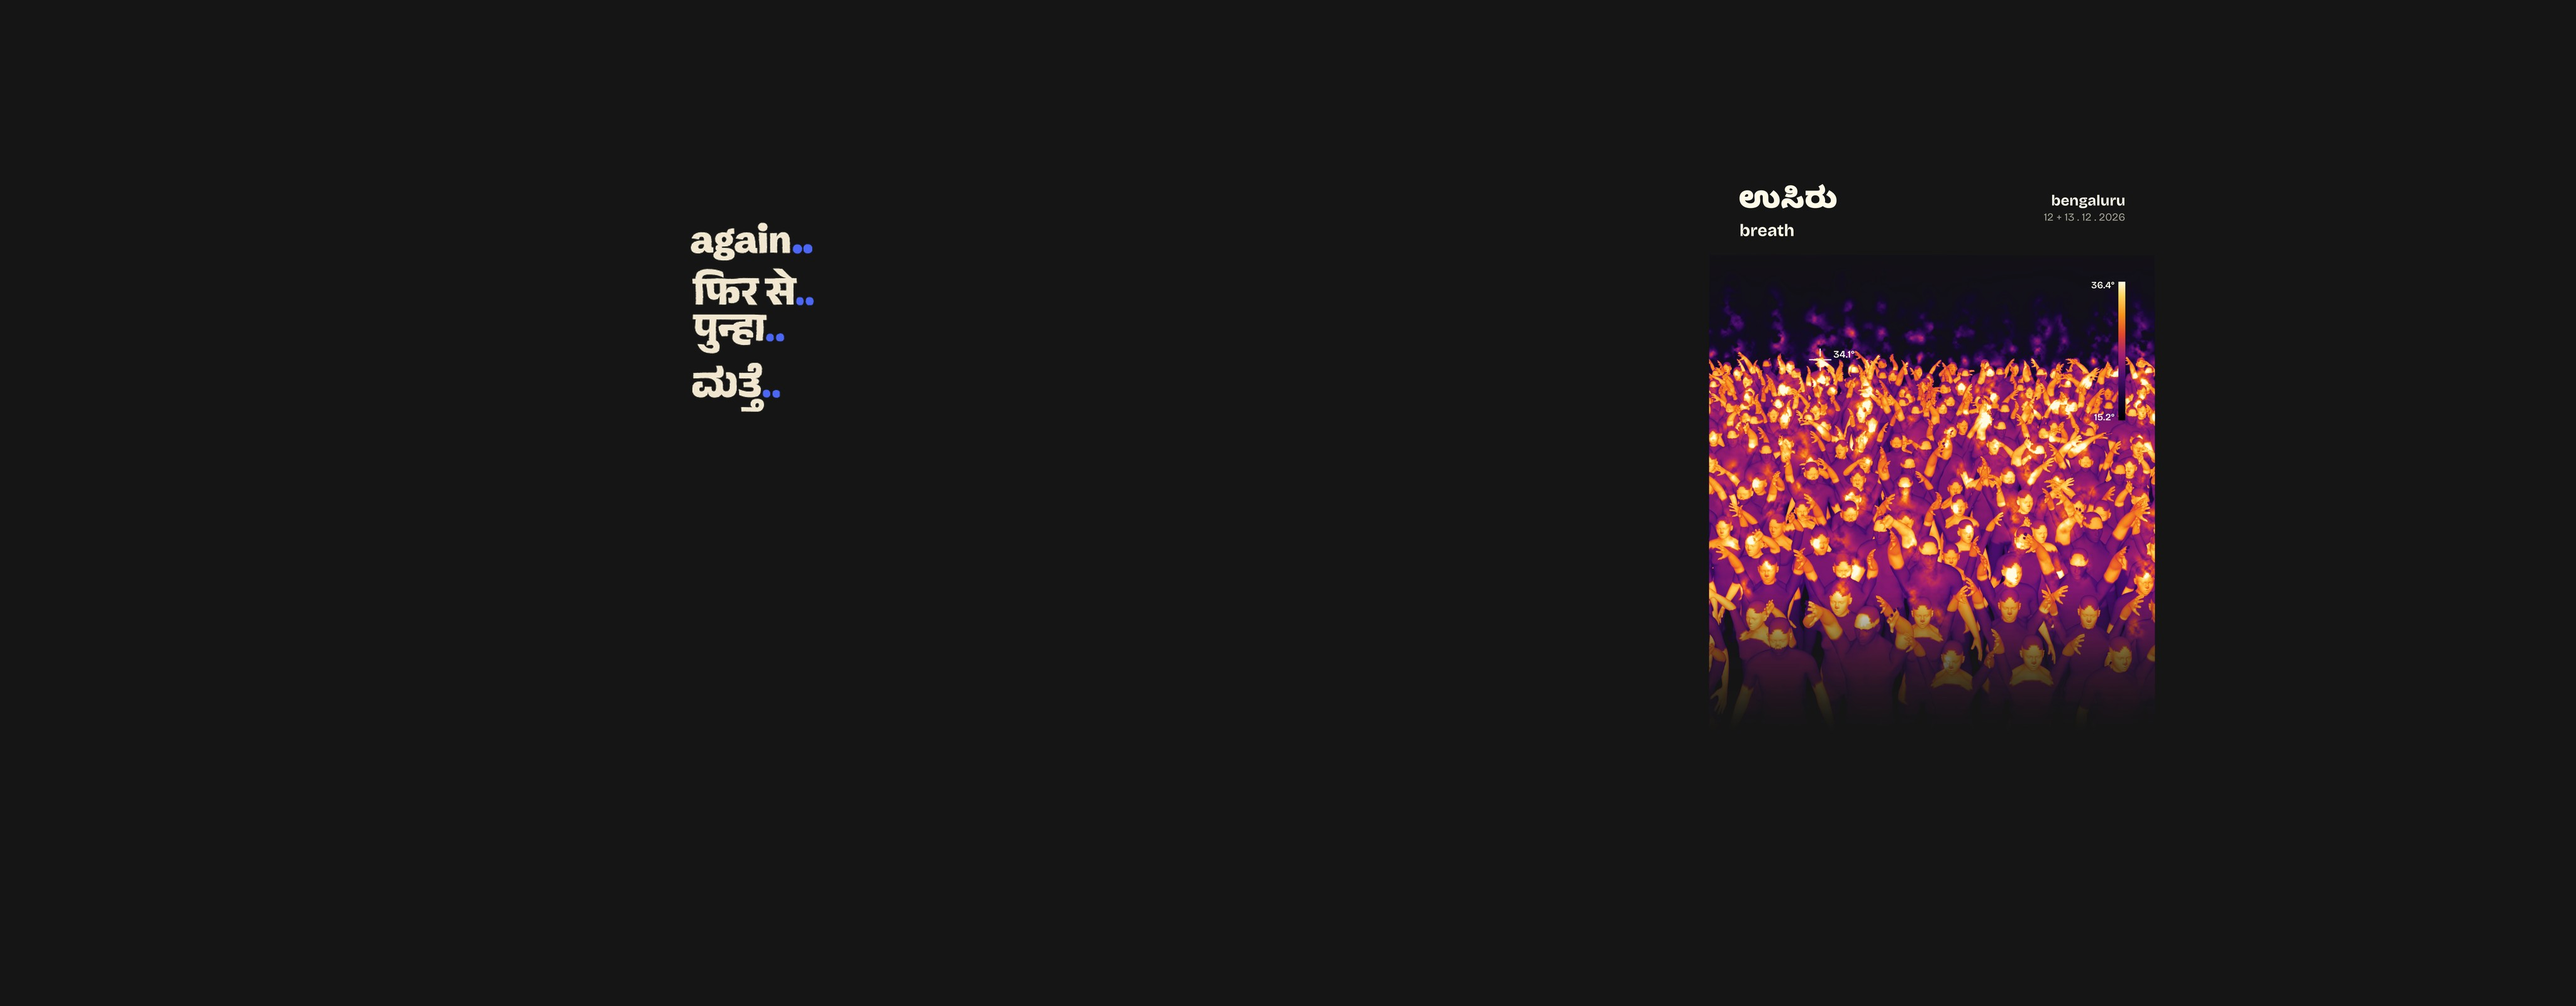
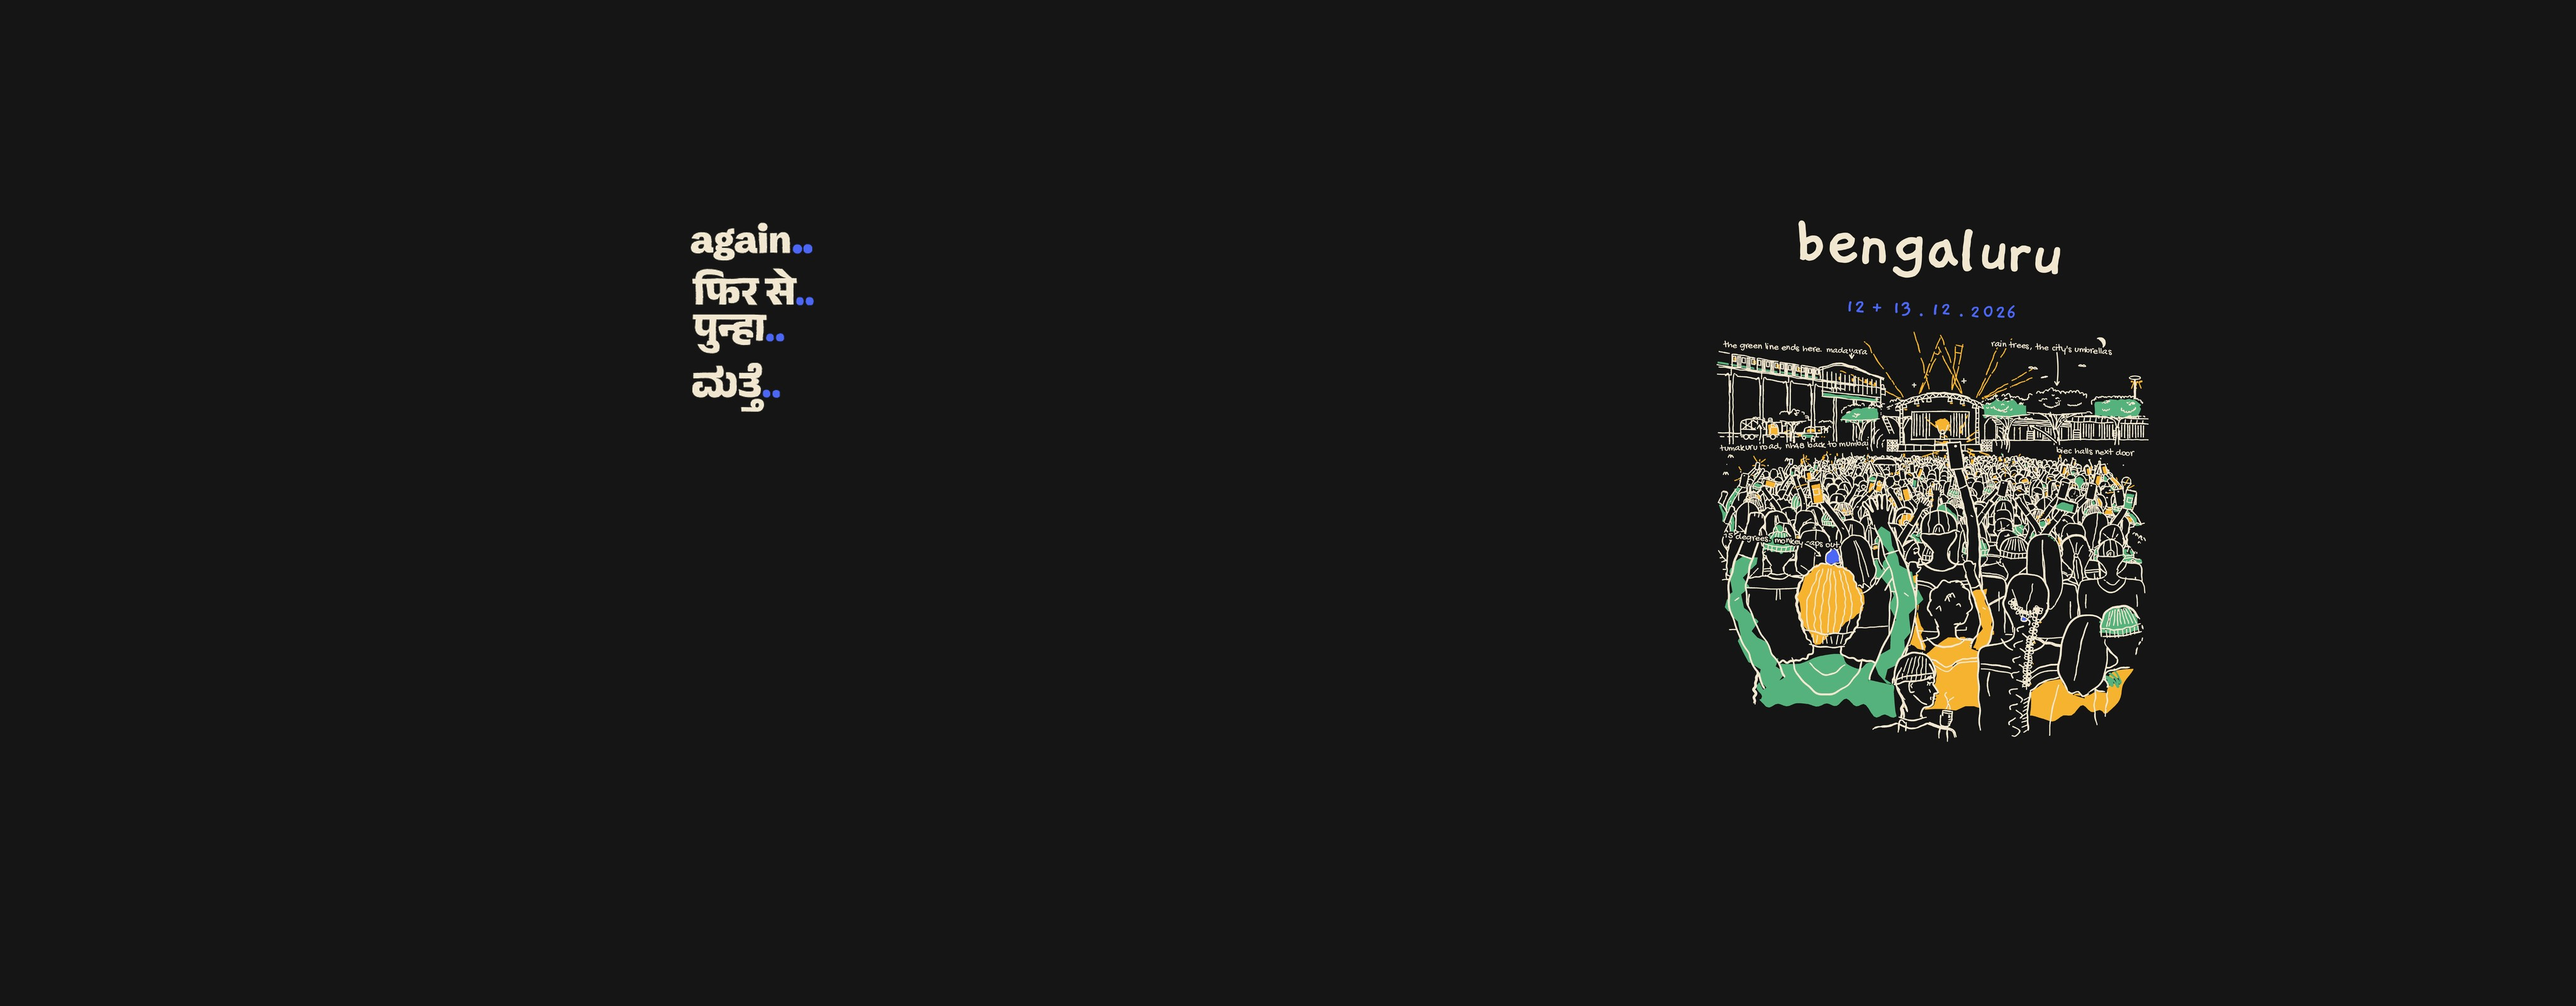
03 Bengaluru crowd replaces breath: the crowd at Madavara, where the green line ends, lettered by hand like Mumbai's (bengaluru, 12 + 13 . 12 . 2026, five notes)

Changed region(s): [[0.6562, 0.1874, 0.8438, 0.7183], [0.7812, 0.1874, 0.8438, 0.2186]]

diff --git a/src/content/tee.ts b/src/content/tee.ts
@@ -13,7 +13,7 @@ export type City = "mumbai" | "bengaluru";
 export const DESIGNS: Record<Design, { no: string; name: string; city: City; colour: Colour; back: string }> = {
   b: { no: "01", name: "crowd", city: "mumbai", colour: "black", back: "the crowd at the barrier, drawn in lines, lit by the stage" },
   a: { no: "02", name: "map", city: "mumbai", colour: "cream", back: "the race course from above, the sea beside it, the sound rolling out from the stage" },
-  c: { no: "03", name: "breath", city: "bengaluru", colour: "black", back: "the crowd through a heat camera on a cold December night, hands up, every breath rising" },
+  c: { no: "03", name: "crowd", city: "bengaluru", colour: "black", back: "the crowd on the grounds at Madavara, where the green line ends: a cool December night, monkey caps and phone torches" },
   d: { no: "04", name: "end of the line", city: "bengaluru", colour: "cream", back: "the green line out to Madavara, its last station, where the show is: the last city, the end of the line" },
 };
 export const CITIES: City[] = ["mumbai", "bengaluru"];

diff --git a/src/app/page.tsx b/src/app/page.tsx
@@ -67,7 +67,7 @@ export default function Home() {
           <section className="mt-16 md:col-span-5 md:mt-0 lg:col-span-4 lg:col-start-9">
             <Label>about this tee</Label>
             <p className="max-w-[40ch] text-[14px] text-ink/85">
-              still breathing makes one shirt per moment. lineup 01 is for the december shows in india: two shirts for mumbai, the crowd and the map, and two for bengaluru, breath and end of the line. each one is made to order and sent anywhere in india.
+              still breathing makes one shirt per moment. lineup 01 is for the december shows in india: two shirts for mumbai, the crowd and the map, and two for bengaluru, the crowd and end of the line. each one is made to order and sent anywhere in india.
             </p>
           </section>
         </div>

diff --git a/src/app/layout.tsx b/src/app/layout.tsx
@@ -3,7 +3,7 @@ import localFont from "next/font/local";
 import "./globals.css";
 import { SmoothScroll } from "@/components/SmoothScroll";
 
-const description = "again..: shirts for the December shows in India. Mumbai: the crowd and the map. Bengaluru: breath and end of the line. Lineup 01 of Still Breathing.";
+const description = "again..: shirts for the December shows in India. Mumbai: the crowd and the map. Bengaluru: the crowd and end of the line. Lineup 01 of Still Breathing.";
 
 export const metadata: Metadata = {
   title: "still breathing",

diff --git a/pipeline/texture.py b/pipeline/texture.py
@@ -63,9 +63,9 @@ if __name__ == "__main__":
     ROOT = os.path.join(HERE, "art")          # flat artwork from the Figma file
     OV = os.path.join(HERE, "overlays")       # lettering overlays exported from Figma
     # Mumbai (A map, B crowd): art from the Figma file plus a lettering overlay.
-    # Bengaluru (C breath, D end of the line): generated by art/make_breath.py + breath_post.py and art/make_line.py,
-    # lettering included.
-    art = {"A": "art-a-map", "B": "art-b-lines", "C": "art-c-breath", "D": "art-d-line"}[design]
+    # Bengaluru C crowd: art from art-c-crowd/gen.py plus its lettering exported from Figma at print size.
+    # D end of the line: generated with its lettering included.
+    art = {"A": "art-a-map", "B": "art-b-lines", "C": "art-c-crowd", "D": "art-d-line"}[design]
     TEE = {"black": (21, 21, 21), "cream": (255, 250, 231)}[tee]
     atlas = Image.new("RGBA", (W * 2, H), TEE + (255,)); mask = Image.new("L", (W * 2, H), 0)
     def place(img, cx_cm, top_cm, w_cm, panel):
@@ -82,6 +82,10 @@ if __name__ == "__main__":
     if design in "AB":
         back = Image.open(f"{ROOT}/{art}/art-{tee}-al3.png").convert("RGBA").resize((1200, 1600), Image.LANCZOS)
         back.alpha_composite(Image.open(f"{OV}/ov-back-{tee}.png").convert("RGBA"))
+    elif design == "C":
+        back = Image.open(f"{ROOT}/{art}/art-{tee}.png").convert("RGBA")
+        back.alpha_composite(Image.open(f"{OV}/ov-back-C-{tee}-hi.png").convert("RGBA"))
+        back = back.resize((1524, 2032), Image.BOX)
     else:
         back = Image.open(f"{ROOT}/{art}/art-{tee}.png").convert("RGBA").resize((1524, 2032), Image.LANCZOS)
     # back: the whole printable area. The blank takes up to 16 x 20 in; the art is 3:4, so it fills the height:

diff --git a/pipeline/printtex.py b/pipeline/printtex.py
@@ -54,13 +54,16 @@ def save(arr, path):
 
 BACK = {("a", "cream"): ("art/art-a-map/art-cream-al3.png", "overlays/ov-back-cream.png"),
         ("b", "black"): ("art/art-b-lines/art-black-al3.png", "overlays/ov-back-black.png"),
-        ("c", "black"): ("art/art-c-breath/art-black.png", None),
+        ("c", "black"): ("art/art-c-crowd/art-black.png", "overlays/ov-back-C-black-hi.png"),
         ("d", "cream"): ("art/art-d-line/art-cream.png", None)}
 pairs = [tuple(p.split("-")) for p in sys.argv[2].split(",")] if len(sys.argv) > 2 else list(BACK)
 for d, tee in pairs:
     art, ov = BACK[(d, tee)]
     b = resize_rgba(Image.open(art), (BW, BH))
-    if ov: b = over(b, recut(Image.open(ov), (BW, BH)))
+    if ov:
+        o = Image.open(ov)
+        # lettering exported at print size or above is simply area-averaged; exported small, it's recut
+        b = over(b, resize_rgba(o, (BW, BH)) if o.width >= BW else recut(o, (BW, BH)))
     b8 = knockout((np.clip(b, 0, 1) * 255 + 0.5).astype(np.uint8), tee)
     save8(b8, f"{OUT}/print-back-{d}-{tee}{'-full' if FULL else ''}.webp")
 if FULL: sys.exit()
